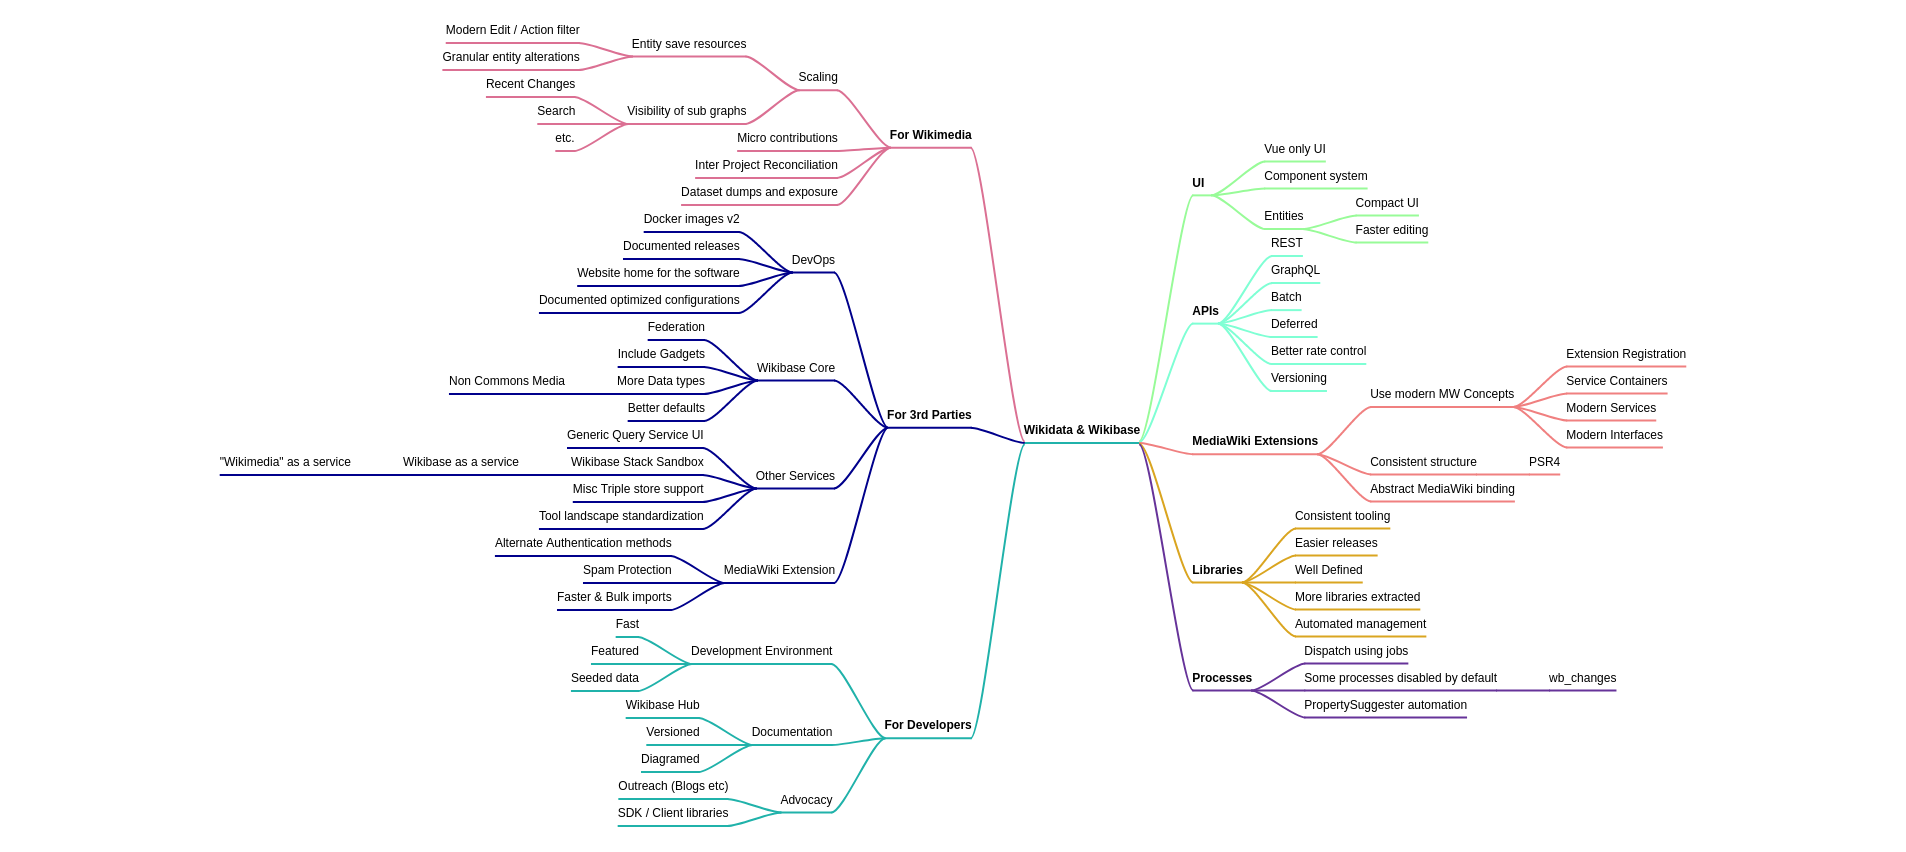
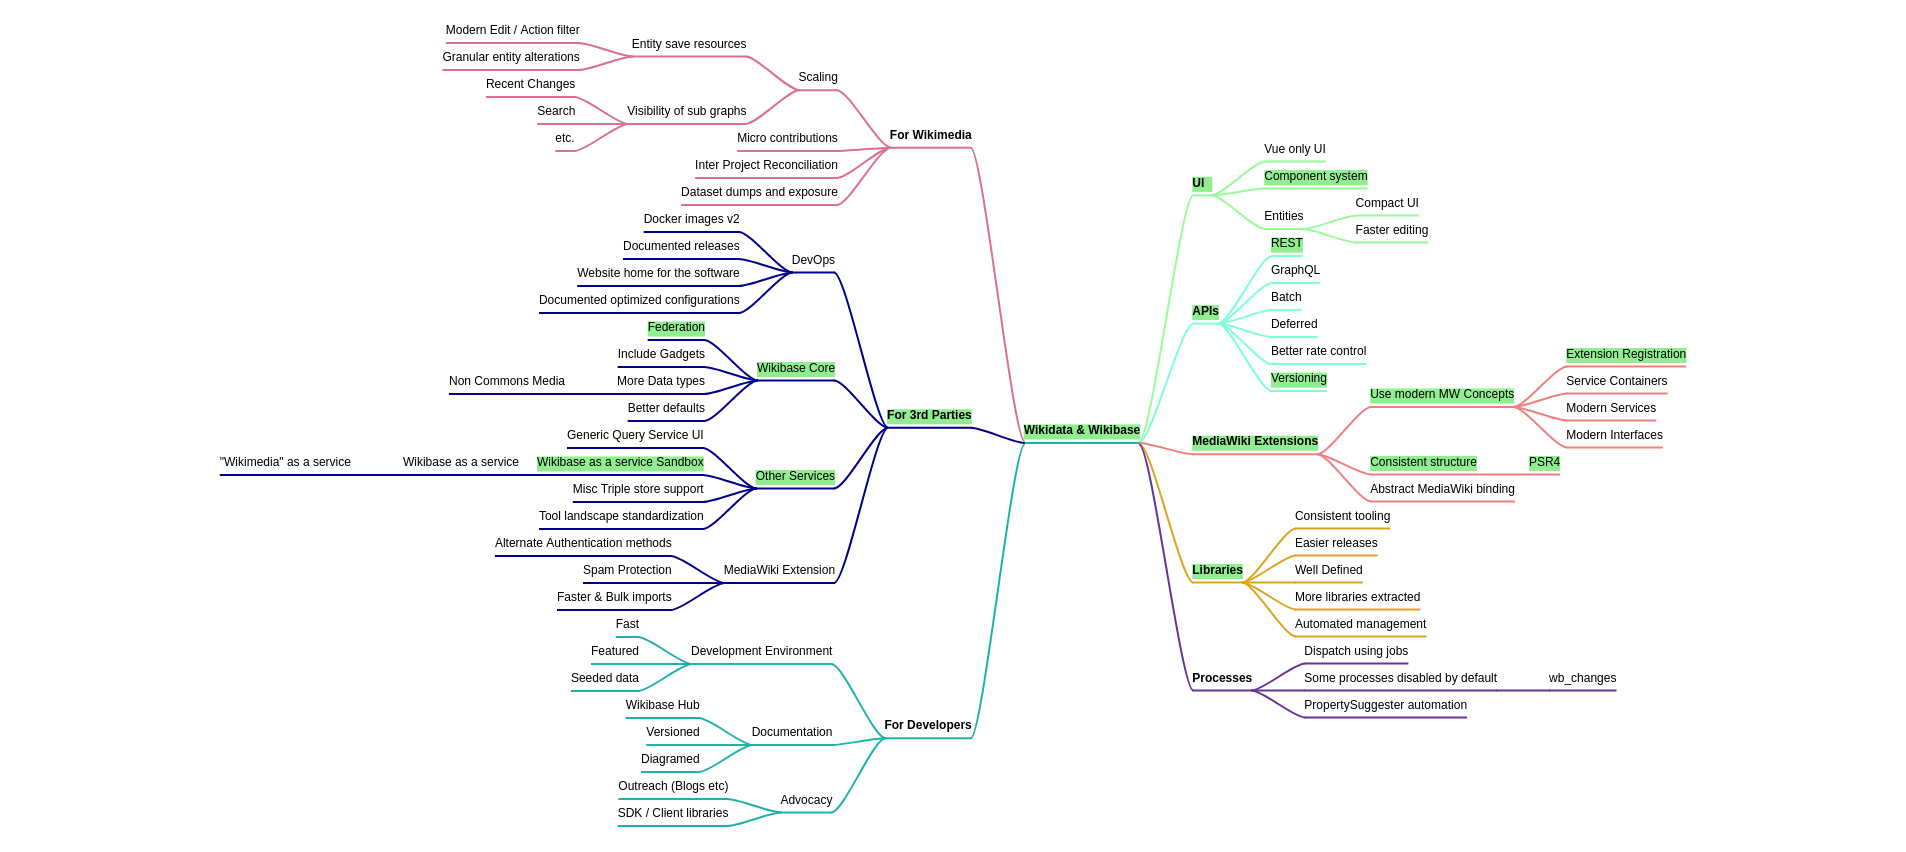
Deploying to gh-pages from  @ 57749e5ae187bde844d4f1957e1f668cd19a4f6c 🚀

diff --git a/script.js b/script.js
@@ -76,7 +76,8 @@ var $ = go.GraphObject.make;
       // remember not only the text string but the scale and the font in the node data
       new go.Binding("text", "text").makeTwoWay(),
       new go.Binding("scale", "scale").makeTwoWay(),
-      new go.Binding("font", "font").makeTwoWay()
+      new go.Binding("font", "font").makeTwoWay(),
+      new go.Binding("background", "background").makeTwoWay()
     ),
     $(
       go.Shape,
@@ -153,6 +154,11 @@ var $ = go.GraphObject.make;
     $("ContextMenuButton", $(go.TextBlock, "Bold/Normal"), {
       click: function (e, obj) {
         toggleTextWeight(obj);
+      }
+    }),
+    $("ContextMenuButton", $(go.TextBlock, "Active/Inactive"), {
+      click: function (e, obj) {
+        toggleTextActiveBackground(obj);
       }
     }),
     $("ContextMenuButton", $(go.TextBlock, "Copy"), {
@@ -280,24 +286,6 @@ var $ = go.GraphObject.make;
   load();
 ////}
 
-
-
-
-
-
-
-
-
-
-
-
-
-
-
-
-
-
-
 function spotConverter(dir, from) {
   if (dir === "left") {
     return from ? go.Spot.Left : go.Spot.Right;
@@ -328,6 +316,19 @@ function toggleTextWeight(obj) {
     tb.font = tb.font.substr(idx + 5);
   }
   adorn.diagram.commitTransaction("Change Text Weight");
+}
+
+function toggleTextActiveBackground(obj) {
+  var adorn = obj.part;
+  adorn.diagram.startTransaction("Change Text Active Background");
+  var node = adorn.adornedPart;
+  var tb = node.findObject("TEXT");
+  if (tb.background == "lightgreen") {
+    tb.background = "";
+  } else {
+    tb.background = "lightgreen";
+  }
+  adorn.diagram.commitTransaction("Change Text Active Background");
 }
 
 function updateNodeDirection(node, dir) {
